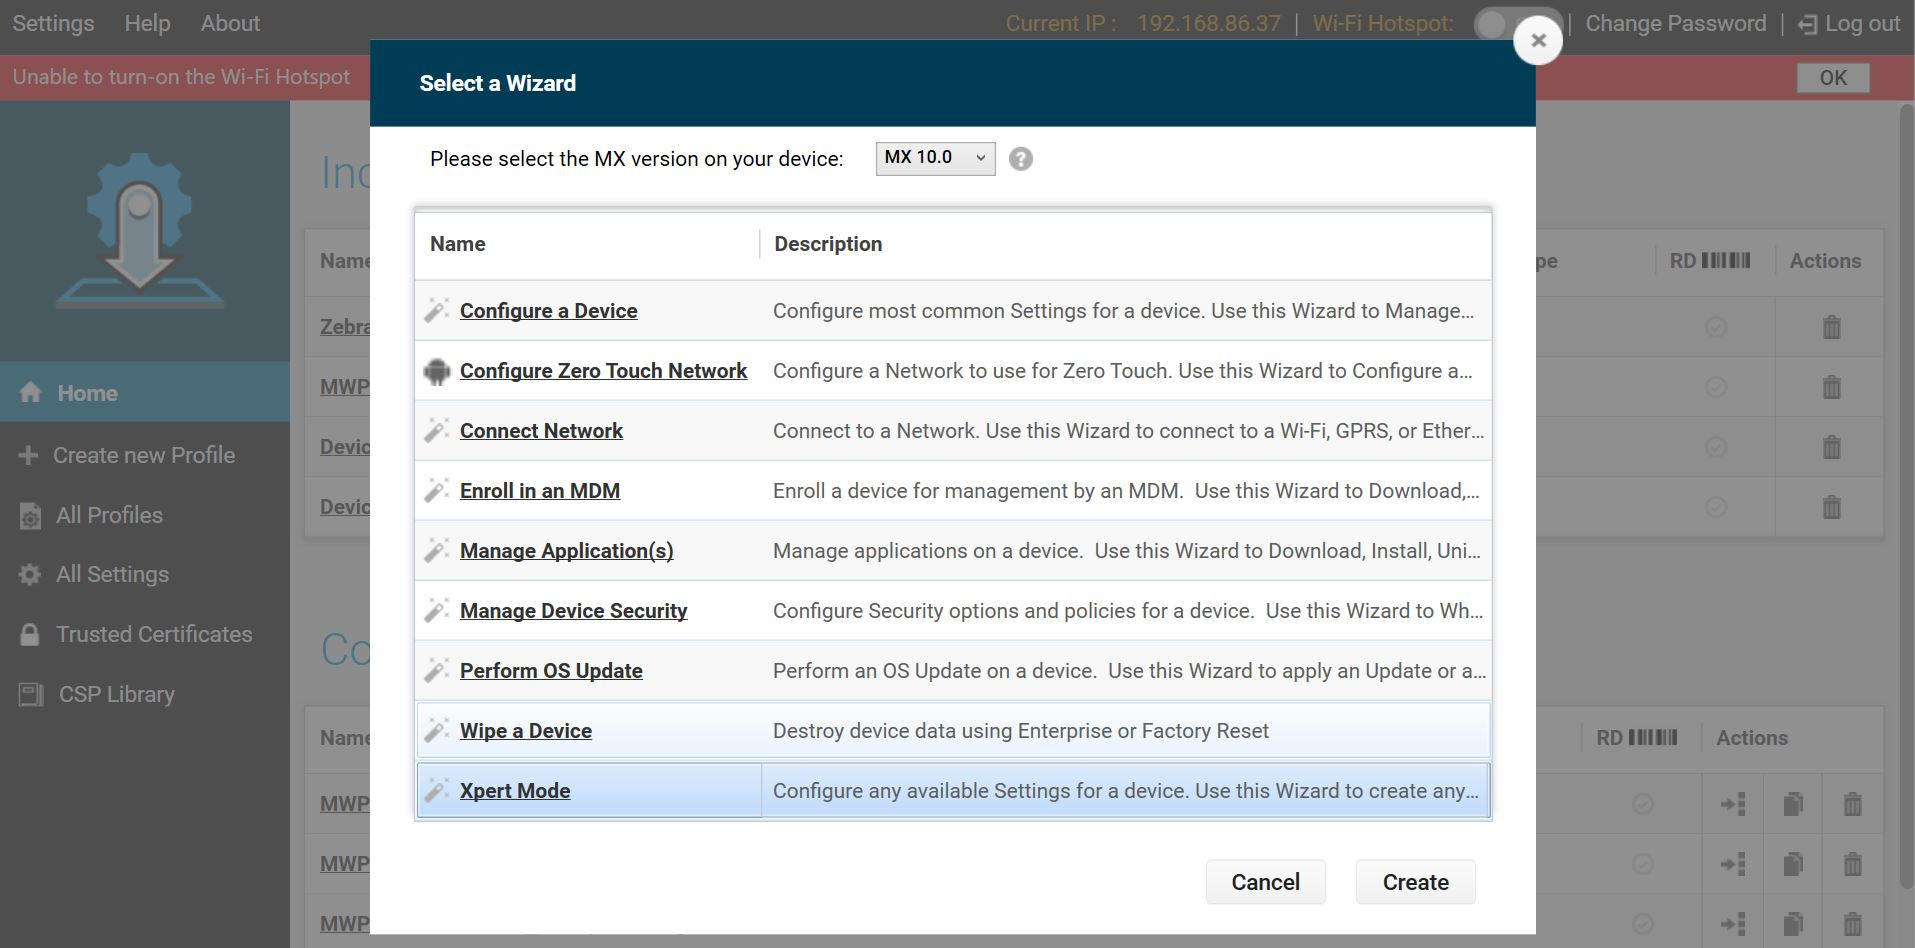
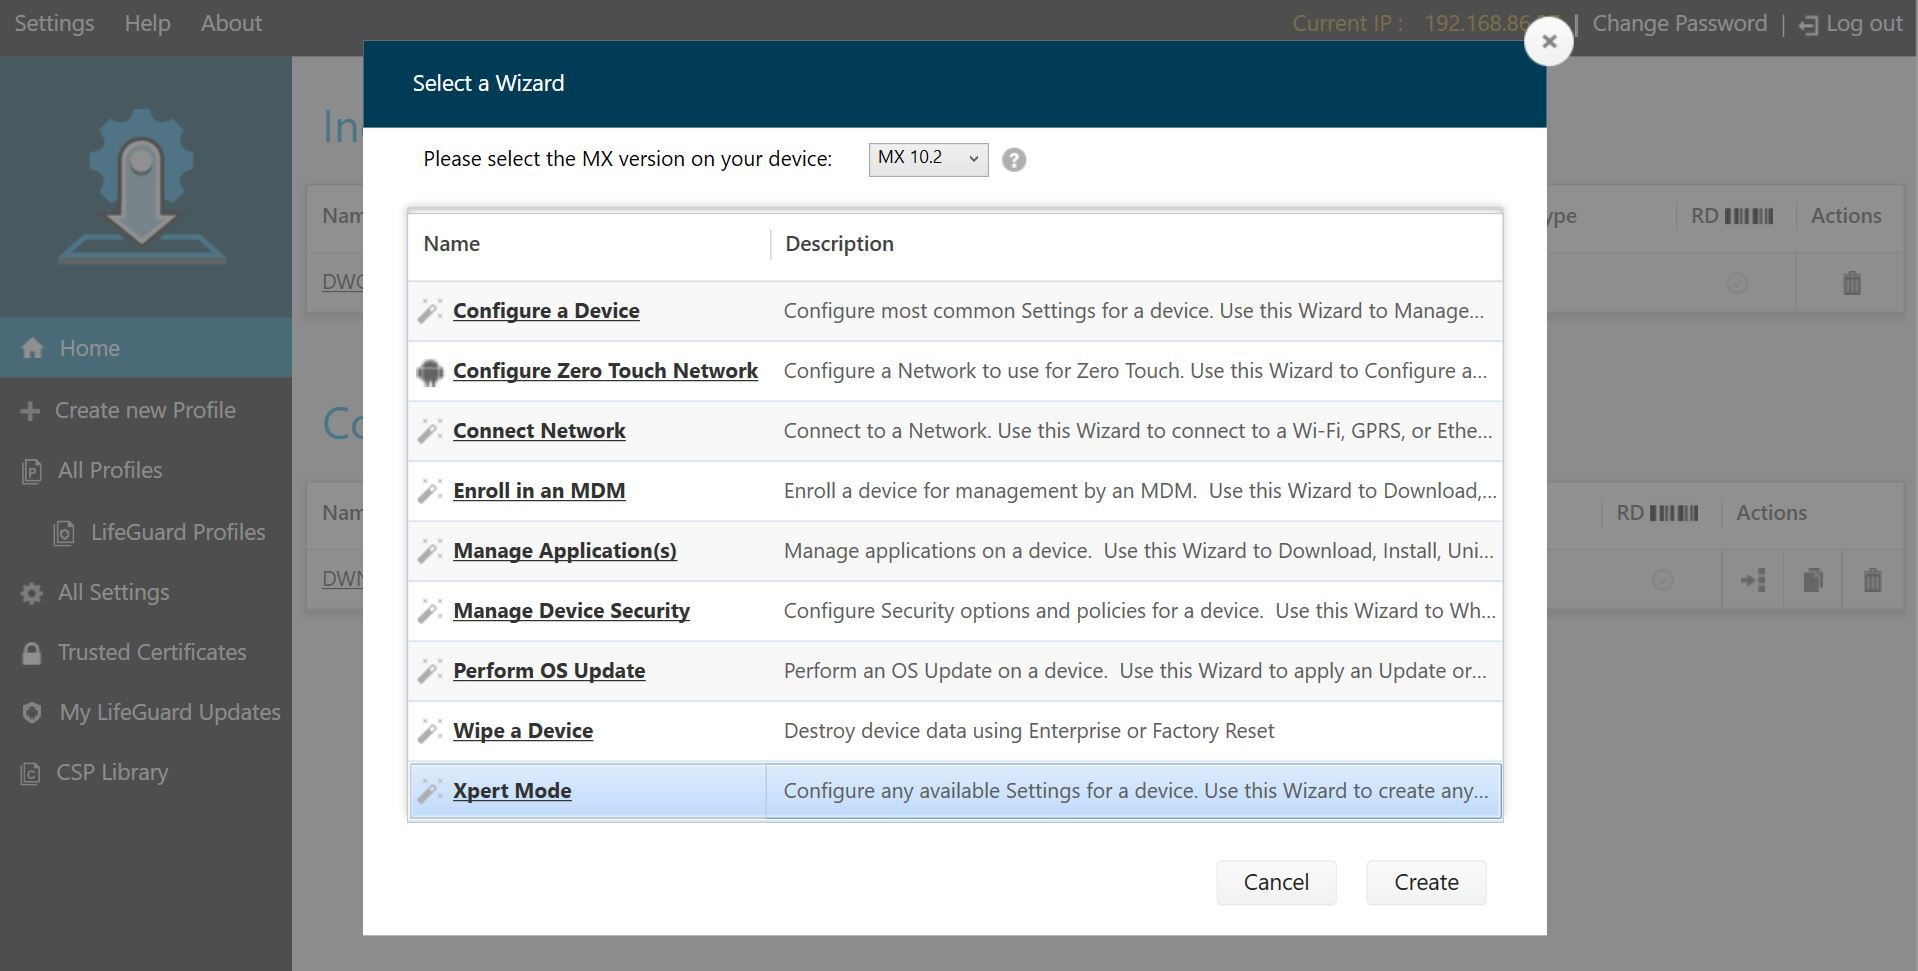
[TUT-81716] Wireless Insights - MX & license updates

diff --git a/wireless-insights/1-0/guide/setup/index.html b/wireless-insights/1-0/guide/setup/index.html
@@ -1,6 +1,7 @@
 
 <!DOCTYPE html>
 <html lang="en"><head>
+
     <meta charset="utf-8">
     <meta http-equiv="Pragma" content="no-cache">
     <meta http-equiv="Expires" content="-1">
@@ -34,7 +35,17 @@
 
[1 lines of base64/hex data omitted]
     <link rel="shortcut icon" href="/favicon.ico">
-<script src="/js/jquery.js"></script></head><!--/head-->
+<script async="" src="https://www.googletagmanager.com/gtag/js?id=G-01QJCMQM9N"></script><script>
+  window.dataLayer = window.dataLayer || [];
+  function gtag(){dataLayer.push(arguments);}
+  gtag('js', new Date());
+  gtag('config', 'G-01QJCMQM9N');
+</script><script src="/js/jquery.js"></script></head><!--/head-->
+
+<!-- Google tag -->
+
+
+
 
 
 <body id="home" class="homepage" data-spy="scroll" data-offset="100" data-target="#toc">
@@ -235,6 +246,8 @@
 <ul>
 <li>Supported <strong>Zebra device model</strong> and <strong>Android version</strong> based on the device compatibility table in the <a href="https://www.zebra.com/us/en/support-downloads/software/productivity-apps/wireless-insights.html">Zebra support portal</a></li>
 
+<li>For <a href="/licensing/about/#zebraprofessionalseriesdevices">Zebra Professional Series Devices,</a> such as TC21 and TC26, a <a href="/licensing">Mobility DNA Enterprise license</a> is required.</li>
+
 <li><strong>Wireless Insights –</strong> service built-in on Zebra Android devices; collects and analyzes Wi-Fi data </li>
 
 <li><strong>Wireless Insights license –</strong> procured through the Zebra Software Licensing platform and installed on the device; see <a href="../license">Licensing</a>.</li>
@@ -388,7 +401,7 @@ Enter/select the desired options for the remaining fields. Click <strong>Continu
 
 <li>In the StageNow home screen, click <strong>Create New Profile</strong> from the left menu.</li>
 
-<li>Ensure the proper MX version is selected at the top drop-down selector. The MX version on the device should match this or higher. See <a href="/mx/mx-version-on-device/">MX documentation</a> for instructions how to check the version. </li>
+<li>Ensure the proper MX version 10.2 or higher is selected at the top drop-down selector. The MX version on the device should match this or higher. See <a href="/mx/mx-version-on-device/">MX documentation</a> for instructions how to check the version. </li>
 
 <li>Select <strong>Xpert Mode</strong> from the list and click <strong>Create.</strong>
 <img alt="image" style="height:350px" src="./sn-xpert-mode.jpg"> </li>
@@ -523,7 +536,7 @@ Otherwise, it displays “Analyzer Not Activated” in red.</li>
             <div class="container-fluid">
                 <div class="row">
                     <div class="col-sm-10">
-                        ZEBRA and the stylized Zebra head are trademarks of Zebra Technologies Corp., registered in many jurisdictions worldwide. All other trademarks are the property of their respective owners. ©2022 Zebra Technologies Corp. and/or its affiliates.<br> <a href="https://www.zebra.com/us/en/about-zebra/company-information/legal.html">Legal</a> | <a href="https://www.zebra.com/us/en/about-zebra/company-information/compliance/information-privacy/terms-of-use.html">Terms of Use</a> | <a href="https://www.zebra.com/us/en/about-zebra/company-information/legal/privacy-statement.html">Privacy Policy</a> 
+                        ZEBRA and the stylized Zebra head are trademarks of Zebra Technologies Corp., registered in many jurisdictions worldwide. All other trademarks are the property of their respective owners. ©2023 Zebra Technologies Corp. and/or its affiliates.<br> <a href="https://www.zebra.com/us/en/about-zebra/company-information/legal.html">Legal</a> | <a href="https://www.zebra.com/us/en/about-zebra/company-information/compliance/information-privacy/terms-of-use.html">Terms of Use</a> | <a href="https://www.zebra.com/us/en/about-zebra/company-information/legal/privacy-statement.html">Privacy Policy</a> 
                     </div>
                      <!--
                      <div class="col-sm-2">
